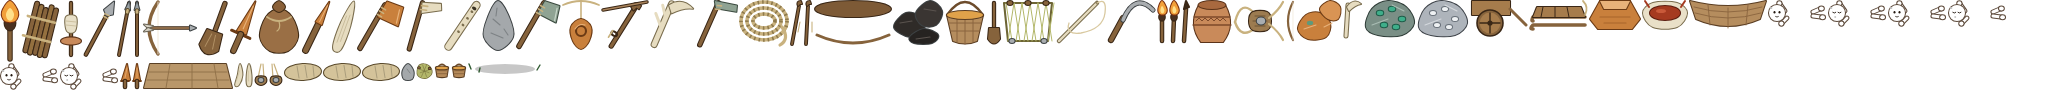
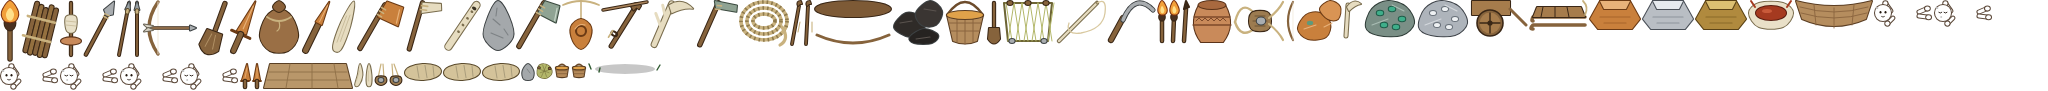
m15: fase 37g — alloying, el bronce y el estano que esta lejos
Nodo alloying (casting + mining), items tin y bronze, recetas smelt_tin y
alloy_bronze (3 cobre + 1 estano -> 3 bronce) en el horno. Una sola veta de estano
en la isla (14 de mineral): una prueba cuenta el bronce maximo. bronze-needs-a-trader
espera al comercio de la fase 36. Pruebas: metal.test.ts 55.

Changed region(s): [[0.0312, 0.6813, 0.3438, 0.989], [0.7812, 0.0, 1.0, 0.3297]]

diff --git a/src/sim/__tests__/metal.test.ts b/src/sim/__tests__/metal.test.ts
@@ -717,3 +717,87 @@ describe('casting', () => {
     }
   });
 });
+
+describe('alloying and bronze', () => {
+  it('needs casting and mining, and is the Bronze Age', () => {
+    const def = TECH.alloying;
+    expect(def.requires).toEqual(['casting', 'mining']);
+    expect(def.web).toBe('metal');
+    expect(def.age).toBe('bronze');
+    for (const required of def.requires) {
+      expect(ageIndex(def.age)).toBeGreaterThanOrEqual(ageIndex(TECH[required].age));
+    }
+  });
+
+  it('can be thought of by a founder who casts and holds only copper', () => {
+    const notice: Notice = {
+      knows: new Set(['casting']), holding: new Set(['copper']), lately: new Set(['craft']), feeling: new Set(),
+      wanting: new Set(), place: 'grass', saw: new Set(), season: 'summer',
+    };
+    expect(TECH.alloying.sparks.some(spark => sparkFires(spark, notice))).toBe(true);
+  });
+
+  it('smelts tin from its ore and runs a tenth of it into the copper', () => {
+    const tin = RECIPES.smelt_tin!;
+    const bronze = RECIPES.alloy_bronze!;
+    for (const recipe of [tin, bronze]) {
+      expect(recipe.tech).toBe('alloying');
+      expect(recipe.station).toBe('furnace');
+      expect(recipe.skill).toBe('smith');
+    }
+    expect(tin.ingredients).toEqual({ tin_ore: 2, charcoal: 1 });
+    expect(tin.output).toEqual({ tin: 1 });
+    // Three parts copper to one of tin, which is the real alloy and not a generous one.
+    expect(bronze.ingredients).toEqual({ copper: 3, tin: 1 });
+    expect(bronze.output).toEqual({ bronze: 3 });
+    expect(ITEMS.tin!.baseValue).toBeGreaterThan(ITEMS.copper!.baseValue);
+    expect(ITEMS.bronze!.baseValue).toBeGreaterThan(ITEMS.copper!.baseValue);
+  });
+
+  it('sends the alloyer to the tin and not to the copper once the ingots are in the pack', () => {
+    const smith = adult('smith');
+    teach(smith, 'mining', 'smelting', 'alloying');
+    smith.inventory.add('copper', 4);
+    expect(wantedOreKinds(smith)).toContain('tin_ore');
+    expect(wantedOreKinds(smith)).not.toContain('copper_ore');
+    smith.inventory.add('tin', 2);
+    expect(wantedOreKinds(smith)).not.toContain('tin_ore');
+  });
+
+  it('leaves a whole island with tin for a handful of bronze tools and no more', () => {
+    // The scarcity is the design: one seam, and what it holds bounds what the
+    // island can ever pour. Counted, so that raising it is a decision.
+    const sim = new Simulation({ seed: 'metal-ore' });
+    const ore = sim.nodes.filter(n => n.kind === 'tin_ore').reduce((sum, n) => sum + n.def.maxAmount, 0);
+    const ingots = Math.floor(ore / RECIPES.smelt_tin!.ingredients.tin_ore!);
+    const bronze = Math.floor(ingots / RECIPES.alloy_bronze!.ingredients.tin!) * RECIPES.alloy_bronze!.output.bronze!;
+    expect(bronze).toBeGreaterThan(0);
+    expect(bronze).toBeLessThan(40);
+  });
+
+  it('smelts tin and alloys bronze at the furnace end to end', () => {
+    const sim = worldKnowing(['firemaking', 'carpentry', 'charcoal', 'smelting', 'pottery', 'casting', 'ground_stone', 'hafting', 'mining', 'alloying']);
+    const person = sim.livingPeople()[0]!;
+    settle(person);
+    person.inventory.add('tin_ore', 2);
+    person.inventory.add('charcoal', 1);
+    const furnace = stationNear(sim, person, 'furnace');
+    expect(sim.order(person, 'craft', { recipeId: 'smelt_tin', buildingId: furnace.id })).toBe(true);
+    for (let i = 0; i < 2000 && person.inventory.count('tin') === 0; i++) {
+      person.needs.thirst = 0;
+      person.needs.hunger = 0;
+      sim.step();
+    }
+    expect(person.inventory.count('tin')).toBe(1);
+    person.inventory.add('copper', 3);
+    expect(sim.order(person, 'craft', { recipeId: 'alloy_bronze', buildingId: furnace.id })).toBe(true);
+    for (let i = 0; i < 2000 && person.inventory.count('bronze') === 0; i++) {
+      person.needs.thirst = 0;
+      person.needs.hunger = 0;
+      sim.step();
+    }
+    expect(person.inventory.count('bronze')).toBe(3);
+    expect(person.inventory.count('tin')).toBe(0);
+    expect(person.inventory.count('copper')).toBe(0);
+  });
+});

diff --git a/src/sim/knowledge/Tech.ts b/src/sim/knowledge/Tech.ts
@@ -171,6 +171,8 @@ export const TECHS = [
   'bellows',
   // Metal poured into a shape: the first tools that are not stone.
   'casting',
+  // Tin into copper: the metal the age is named for, and the one that is far away.
+  'alloying',
 ] as const;
 export type Tech = (typeof TECHS)[number];
 
@@ -2176,6 +2178,35 @@ export const TECH: Record<Tech, TechDef> = {
       'Metal run into a hollow shaped in clay. An axe that cuts like the ' +
       'best polished stone, and a dagger: a blade longer than any flint gives.',
   },
+  // M15 phase 37 (M8.3). A tenth part of tin in the copper, and the metal is
+  // harder, runs better and holds an edge: bronze. The plan's whole point is the
+  // tin. Copper is in the hills of nearly every country and tin is in a few
+  // places in a continent, so this is the node a band without a tin seam can
+  // know and never use, and the one that sends the Bronze Age's traders across
+  // it. Tin is smelted here too, from its ore: nothing earlier has a use for the
+  // ingot, so it is not made earlier.
+  alloying: {
+    id: 'alloying', label: 'Alloying', domain: 'metal', web: 'metal',
+    age: 'bronze', firstKnown: 'about 3300 BC',
+    kind: 'device',
+    requires: ['casting', 'mining'], difficulty: 0.75, skill: 'smith',
+    prototype: { copper_ore: 2, mud: 2 }, maxRefinement: 2,
+    sparks: [
+      { needs: [{ kind: 'knows', tech: 'casting' }, { kind: 'knows', tech: 'mining' },
+                { kind: 'holding', item: 'tin_ore' }],
+        weight: 1.0, story: 'smelted a grey-black stone along with the copper and got a harder, brighter metal' },
+      { needs: [{ kind: 'knows', tech: 'casting' }, { kind: 'holding', item: 'copper' },
+                { kind: 'doing', action: 'craft' }],
+        weight: 0.5, story: 'cast an axe that bent and wondered what made another band\'s hold its edge' },
+      { needs: [{ kind: 'knows', tech: 'casting' }, { kind: 'knows', tech: 'mining' },
+                { kind: 'place', biome: 'hills' }],
+        weight: 0.4, story: 'noticed a heavy pale stone in the same seam as the green and put them in the fire together' },
+    ],
+    description:
+      'A tenth of tin in the copper. Harder, it runs cleaner into the mould ' +
+      'and holds an edge. The copper is in every hill; the tin is in a few ' +
+      'places in a whole continent, and that is what the age is made of.',
+  },
 };
 
 /** The web a technology lives in (`'main'` unless its entry says otherwise). */
@@ -2525,6 +2556,10 @@ export const TECH_EFFECTS: Record<Tech, TechEffect> = {
   casting: {
     summary: 'A cast axe that fells and a cast dagger that cuts: the first tools that are not stone.',
     site: 'RECIPES.copper_axe (Tech.axeFactor, via AXE_TOOLS) and RECIPES.copper_dagger (weaponOf, via ITEMS.copper_dagger.weapon)',
+  },
+  alloying: {
+    summary: 'Tin from its ore, and bronze from tin and copper: the stuff of the best tools and arms, and the reason to go looking for tin.',
+    site: 'RECIPES.smelt_tin and RECIPES.alloy_bronze at the furnace; Ore.wantedOreKinds, which sends the smith to the tin',
   },
 };
 

diff --git a/src/i18n/es/tech.ts b/src/i18n/es/tech.ts
@@ -446,4 +446,11 @@ export const ES_TECH: Record<string, string> = {
   "wanted the ingot to be an axe and not a lump": "quiso que el lingote fuera un hacha y no un bulto",
   "pressed a flint axe into wet clay for the print and thought of filling it": "apretó un hacha de sílex en arcilla húmeda para ver la huella y pensó en llenarla",
   "A cast axe that fells and a cast dagger that cuts: the first tools that are not stone.": "Un hacha fundida que tala y una daga fundida que corta: las primeras herramientas que no son de piedra.",
+  "Alloying": "Aleación",
+  "about 3300 BC": "hacia el 3300 a. C.",
+  "A tenth of tin in the copper. Harder, it runs cleaner into the mould and holds an edge. The copper is in every hill; the tin is in a few places in a whole continent, and that is what the age is made of.": "Una décima parte de estaño en el cobre. Más duro, corre limpio al molde y conserva el filo. El cobre está en todos los cerros; el estaño, en unos pocos sitios de un continente entero, y de eso está hecha la edad.",
+  "smelted a grey-black stone along with the copper and got a harder, brighter metal": "fundió una piedra gris negruzca junto con el cobre y obtuvo un metal más duro y brillante",
+  "cast an axe that bent and wondered what made another band's hold its edge": "coló un hacha que se dobló y se preguntó qué hacía que la de otra banda conservara el filo",
+  "noticed a heavy pale stone in the same seam as the green and put them in the fire together": "notó una piedra pálida y pesada en la misma veta que la verde y las echó juntas al fuego",
+  "Tin from its ore, and bronze from tin and copper: the stuff of the best tools and arms, and the reason to go looking for tin.": "Estaño de su mineral, y bronce de estaño y cobre: la materia de las mejores herramientas y armas, y la razón para ir a buscar estaño.",
 };

diff --git a/src/sim/entities/Recipe.ts b/src/sim/entities/Recipe.ts
@@ -621,6 +621,21 @@ export const RECIPES: Record<string, RecipeDef> = {
     workTicks: 100, ingredients: { copper: 1 }, output: { copper_dagger: 1 },
     station: 'furnace', keep: 1,
   },
+  // `alloying`. Tin is smelted from its ore the way copper is (one of charcoal,
+  // for two of ore: it runs at a lower heat), and `keep: 2` is a pour's worth.
+  smelt_tin: {
+    id: 'smelt_tin', label: 'Smelt tin', icon: '\u{1F525}', tech: 'alloying', skill: 'smith',
+    workTicks: 100, ingredients: { tin_ore: 2, charcoal: 1 }, output: { tin: 1 },
+    station: 'furnace', keep: 2,
+  },
+  // Three of copper and one of tin run together: three of bronze (the loss in
+  // the slag is the tenth of tin the real alloy is, so the ratio is the real
+  // one and the yield is not generous). `keep: 3` is what `bronze_tools` will pour.
+  alloy_bronze: {
+    id: 'alloy_bronze', label: 'Alloy bronze', icon: '\u{1F525}', tech: 'alloying', skill: 'smith',
+    workTicks: 110, ingredients: { copper: 3, tin: 1 }, output: { bronze: 3 },
+    station: 'furnace', keep: 3,
+  },
   // `bellows`: the same run in less time and three ingots, not two. A second
   // recipe rather than a term on the first, on the `kiln_pot` model, and the
   // trap that comment records applies here exactly: the craft scorer has no

diff --git a/art/src/props/items.ts b/art/src/props/items.ts
@@ -76,6 +76,14 @@ export const ITEMS: ItemArt[] = [
     + stroke('M32,9L32,34', '#e8b27a', 1.1)
     + limb([[22, 40], [42, 40]], 3, '#6b3a14', null)
     + limb([[32, 40], [32, 58]], 4.6, WOOD, WOOD_D), 24)],
+  ['tin', 'Lingote de estaño', 'alloying', () =>
+    shape(poly([[8, 42], [18, 24], [48, 24], [58, 42], [50, 52], [16, 52]]), '#b9bec4', '#4a5058')
+    + shape(poly([[18, 24], [48, 24], [44, 32], [22, 32]]), '#e6eaee', '#4a5058')
+    + stroke('M18,40L48,40M22,46L44,46', '#8d949b', 1.2)],
+  ['bronze', 'Lingote de bronce', 'alloying', () =>
+    shape(poly([[8, 42], [18, 24], [48, 24], [58, 42], [50, 52], [16, 52]]), '#b08a3e', '#5a4216')
+    + shape(poly([[18, 24], [48, 24], [44, 32], [22, 32]]), '#dcc072', '#5a4216')
+    + stroke('M18,40L48,40M22,46L44,46', '#8a6a28', 1.2)],
   ['charcoal', 'Carbón vegetal', 'charcoal', () =>
     shape(smooth([[10, 44], [22, 30], [36, 34], [40, 48], [26, 54]]), '#2f2b28', STONE_D)
     + shape(smooth([[32, 30], [46, 18], [58, 28], [52, 42], [38, 42]]), '#3a3532', STONE_D)

diff --git a/src/sim/entities/Item.ts b/src/sim/entities/Item.ts
@@ -373,6 +373,10 @@ export const ITEMS: Record<string, ItemDef> = {
     weapon: { damage: 0.5, reach: 0.25, hunt: 1.2, tech: 'casting' },
     class: 'small', hand: { perHand: 1, perArms: 1, hands: 1 },
   },
+  // `alloying`'s two: the ingot of tin and the ingot of bronze. Tin is the dearest
+  // thing a band can make before iron, because there is so little of it.
+  tin: { id: 'tin', label: 'Tin', nutrition: 0, spoilTicks: 0, baseValue: 22, class: 'bulky', hand: { perHand: 1, perArms: 3, hands: 1 } },
+  bronze: { id: 'bronze', label: 'Bronze', nutrition: 0, spoilTicks: 0, baseValue: 20, class: 'bulky', hand: { perHand: 1, perArms: 3, hands: 1 } },
   charcoal: { id: 'charcoal', label: 'Charcoal', nutrition: 0, spoilTicks: 0, baseValue: 3, class: 'loose', hand: { perHand: 2, perArms: 6, hands: 1 } },
 };
 

diff --git a/src/i18n/es/data.ts b/src/i18n/es/data.ts
@@ -284,4 +284,8 @@ export const ES_DATA: Record<string, string> = {
   "Smelt copper with bellows": "Fundir cobre con fuelle",
   "Copper axe": "Hacha de cobre",
   "Copper dagger": "Daga de cobre",
+  "Tin": "Estaño",
+  "Bronze": "Bronce",
+  "Smelt tin": "Fundir estaño",
+  "Alloy bronze": "Alear bronce",
 };

diff --git a/docs/m15_phase37_metal.md b/docs/m15_phase37_metal.md
@@ -169,3 +169,13 @@ gris con vetas verdes, o claras para el estaño).
 **Quién lo lee.** El hacha, `Tech.axeFactor` y `axeItemOf`, que eran dos ramas escritas a mano y ahora son **una tabla**, `AXE_TOOLS` (hacha de mano 0,5, pulida 0,35, de cobre 0,3), porque la fase añade dos más y cuatro copias de una idea son cuatro respuestas que se separan. El comportamiento de las viejas no cambia (el empate sigue siendo del hacha más humilde; una prueba lo fija) y una prueba recorre la tabla comprobando que cada `full` deja el multiplicador positivo con el refinamiento máximo de su técnica. `EquipmentAnimation` lee la misma tabla, así que el hacha de cobre se ve en la mano (con la silueta del hacha). La daga es un arma (`weapon`, daño 0,5, alcance 0,25, caza 1,2) y solo eso, por la razón del `handaxe`: saber hacer un arma y blandirla son preguntas distintas, y el hacha de cobre **no** es arma. La daga lleva su propia mano en el arte (`held/copper_dagger`).
 
 **Pruebas.** `metal.test.ts` (+7): declaración, recetas, el suelo de la tabla de hachas, el hacha de cobre tala más rápido que la pulida y nada sin saber hacerla (doble puerta), el hacha antigua sigue igual, la daga solo vale a quien sabe, verter un hacha de punta a punta y la mano dibuja cualquier hacha. Arte: dos iconos y la mano de la daga.
+
+## 37g — `alloying`: el bronce y el estaño que está lejos
+
+**Qué hay.** El nodo `alloying` (dispositivo, red Metal, Edad del Bronce, «hacia el 3300 a. C.», requiere `casting` y `mining`), los ítems `tin` y `bronze`, y dos recetas en el horno: `smelt_tin` (dos de mineral y uno de carbón → un lingote de estaño) y `alloy_bronze` (tres de cobre y uno de estaño → tres de bronce: la proporción real, y nada generosa). El estaño se funde aquí y no antes porque ningún nodo anterior le da uso al lingote.
+
+**La escasez es el diseño.** Una veta de estaño en toda la isla clásica, de catorce de mineral: da siete lingotes y a lo sumo veintiuno de bronce. Una prueba lo cuenta (`bronze` entre 1 y 39) para que subirlo sea una decisión y no un descuido. Con mapa, el estaño solo aparece donde la región lo tiene, que es casi ninguna (0,45 % de las regiones del mapa generado, un puñado de puntos de la Tierra): ahí empieza el comercio a distancia de la fase 36. `Ore.wantedOreKinds` manda al alfarero de bronce a la veta de estaño solo cuando ya lleva cobre y no lleva estaño.
+
+**`bronze-needs-a-trader` queda sin medir.** La puerta del plan («casi ninguna banda sin estaño en su comarca funde bronce sin haber comerciado o asaltado») necesita el comercio y las caravanas de la fase 36, que no están en esta rama, y una cohorte con mapa. Se deja anotada en `docs/next-steps.md`; lo que sí se puede decir hoy es lo que prueba la cuenta de arriba: sin estaño en la región no hay bronce que fundir.
+
+**Pruebas.** `metal.test.ts` (+6): declaración y edad, chispa sin estaño en mano, las dos recetas y la proporción, `wantedOreKinds` (estaño sí, cobre ya no), el tope de bronce de la isla, y fundir estaño y alear bronce de punta a punta (tres de bronce).

diff --git a/docs/changelog.md b/docs/changelog.md
@@ -1,3 +1,7 @@
+## 2026-10-07 — M15 fase 37g: `alloying`, el bronce, y el estaño que está lejos
+
+Por qué: el nodo que da nombre a la edad. `alloying` (`casting` + `mining`), ítems `tin` y `bronze`, recetas `smelt_tin` y `alloy_bronze` (tres de cobre y uno de estaño dan tres de bronce) en el horno. **Una sola veta de estaño en toda la isla**, de catorce de mineral: a lo sumo veintiuno de bronce, y una prueba lo cuenta para que subirlo sea una decisión; con mapa, solo donde la región tiene estaño. `bronze-needs-a-trader` queda sin medir porque necesita el comercio de la fase 36 (anotado en `next-steps.md`). Tests: `metal.test.ts` (55 en total). Detalle en [m15_phase37_metal.md](m15_phase37_metal.md).
+
 ## 2026-10-07 — M15 fase 37f: `casting`, el hacha de cobre y la daga
 
 Por qué: las primeras herramientas que no son de piedra. Nodo `casting` (`smelting` + `pottery`), hacha y daga de cobre en el horno, de lingote. **Una tabla en vez de dos ramas**: `axeFactor` y `axeItemOf` leían el hacha de mano y la pulida con código escrito a mano; ahora recorren `AXE_TOOLS` (y `EquipmentAnimation` también), porque llegan dos hachas más y el empate sigue siendo del hacha más humilde. `maxRefinement: 1` por la regla de `ground_stone` (el multiplicador no puede bajar de cero), y una prueba recorre la tabla. La daga es la única arma: el hacha de cobre no lo es (el error del `handaxe`). Tests: `metal.test.ts` (49 en total). Arte: iconos y mano de la daga. Detalle en [m15_phase37_metal.md](m15_phase37_metal.md).

diff --git a/docs/m15_plan.md b/docs/m15_plan.md
@@ -3475,6 +3475,8 @@ metal.
 
 **Avance del 2026-10-07 (37f, `casting`).** El hacha de cobre (tala más que la pulida, por la tabla `AXE_TOOLS` que sustituye a las dos ramas escritas a mano) y la daga de cobre (arma), vertidas en el horno de lingote. Nuevas manos en el arte para la daga.
 
+**Avance del 2026-10-07 (37g, `alloying`).** El estaño se funde y se alea con el cobre en el horno (tres de cobre y uno de estaño dan tres de bronce). Hay un solo yacimiento de estaño en la isla, de catorce de mineral, y una prueba cuenta el bronce que da como máximo. `bronze-needs-a-trader` espera al comercio de la fase 36.
+
 ---
 
 # Bloque IX — Civilización y hierro (M14 bloque VIII; M8.4)
